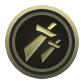
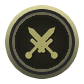
editor: the toolbar's right-hand discs drawn by BuildToolIcons.py
Level, Balance, Generate, Check, Undo, Redo, Save, To source and
Play/Pause were Wenrexa discs with stock glyphs, and Check was a square
card that matched nothing beside it. They are now drawn by the same script
as the tool strip, on the same blank and in the same glyph colour, so the
whole toolbar is one hand:
- Level: three slider tracks, knobs set apart.
- Balance: two crossed swords, points up (drawn heavy; at the first,
  thinner weight they read as scratches at 84 px).
- Generate: a die showing five.
- Check: a tick, on a disc like the rest.
- Undo / Redo: half-turn arrows over the top, heads down.
- Save: a floppy disk.
- To source: an arrow down into a tray (the old circling arrows read as
  "refresh").
- Play / Pause: as before, redrawn.

The script used to derive its blank disc from icon_tb_play.png on every
run; now that it draws the Play disc too, that would read its own output.
The first run keeps the blank as assets/ui/icon_tb_blank.png and later
runs start from it (delete it to derive afresh from a genuine Wenrexa
disc). Re-running left every tool-strip and New world disc byte-identical,
which is the check that the kept blank is the one they were drawn on.

diff --git a/tools/BuildToolIcons.py b/tools/BuildToolIcons.py
@@ -1,7 +1,8 @@
 # tools/BuildToolIcons.py - the map editor's script-drawn icon discs
 # (docs/editor-updates-plan.md): the TOOL STRIP's (P1,
-# assets/ui/icon_tb_tool_<name>.png) and the New world disc (P4,
-# icon_tb_newworld.png).
+# assets/ui/icon_tb_tool_<name>.png), the New world disc (P4,
+# icon_tb_newworld.png) and the toolbar's right-hand group (Level, Balance,
+# Generate, Check, Undo/Redo, Save, To source, Play/Pause).
 #
 # Run:  python tools\BuildToolIcons.py [--montage <png>]
 #
@@ -35,8 +36,24 @@ SHADOW = (8, 8, 6, 170)
 
 
 def blank_disc():
+    """The blank disc: icon_tb_blank.png, derived once from the Play disc.
+
+    The derivation reads a Wenrexa disc, and since this script now draws the
+    Play disc too, deriving on every run would read its own output. So the
+    first run keeps the blank beside the icons and every later run starts from
+    that; delete it to derive afresh (from a genuine Wenrexa Play disc)."""
+    path = os.path.join(UI, "icon_tb_blank.png")
+    if os.path.exists(path):
+        return Image.open(path).convert("RGBA")
+    blank = derive_blank(os.path.join(UI, "icon_tb_play.png"))
+    blank.save(path)
+    print("wrote", os.path.relpath(path, ROOT))
+    return blank
+
+
+def derive_blank(src):
     """The Play disc with its glyph removed: the face refilled per radius."""
-    im = Image.open(os.path.join(UI, "icon_tb_play.png")).convert("RGBA")
+    im = Image.open(src).convert("RGBA")
     px = im.load()
     # The face colour at each integer radius, from pixels too dark to be glyph.
     samples = {}
@@ -171,6 +188,112 @@ def glyph_newworld(d):
     d.rectangle([(px - 2) * SS, (py - 7) * SS, (px + 2) * SS, (py + 7) * SS], fill=GLYPH)
 
 
+# --- the toolbar's right-hand group ------------------------------------------
+# Level settings, Balance, Generate, Check, Undo/Redo, Save, To source and
+# Play/Pause. They were Wenrexa discs with stock glyphs (Check a square card
+# that matched nothing); drawing them here puts the whole toolbar in one hand.
+def glyph_level(d):
+    # The level's mood knobs: three slider tracks, their knobs set apart.
+    for y, k in ((31.5, 49), (41.5, 35), (51.5, 44)):
+        d.rectangle([27 * SS, (y - 1.2) * SS, 56 * SS, (y + 1.2) * SS], fill=GLYPH)
+        d.rounded_rectangle([(k - 3) * SS, (y - 4.5) * SS, (k + 3) * SS, (y + 4.5) * SS],
+                            radius=1.5 * SS, fill=GLYPH)
+
+
+def sword(d, tip, pommel):
+    # A straight sword from tip to pommel: blade, crossguard, grip, pommel.
+    tx, ty = tip
+    px, py = pommel
+    L = math.dist(tip, pommel)
+    ux, uy = (px - tx) / L, (py - ty) / L     # tip -> pommel
+    nx, ny = -uy, ux                          # across the blade
+
+    def at(t, s=0.0):
+        return (tx + ux * t + nx * s, ty + uy * t + ny * s)
+
+    # Heavy on purpose: at 1.9 half-width the pair read as scratches at 84 px.
+    guard = L * 0.64
+    d.polygon(S([at(0), at(5, 2.8), at(guard, 2.8), at(guard, -2.8), at(5, -2.8)]), fill=GLYPH)
+    line(d, at(guard, 7.5), at(guard, -7.5), 3.8)   # crossguard
+    line(d, at(guard), at(L - 2.5), 3.4)            # grip
+    r = 3.3
+    cx, cy = at(L - 1)
+    d.ellipse([(cx - r) * SS, (cy - r) * SS, (cx + r) * SS, (cy + r) * SS], fill=GLYPH)
+
+
+def glyph_balance(d):
+    # Combat tuning: two swords crossed, points up.
+    sword(d, (28, 27), (55, 56))
+    sword(d, (55, 27), (28, 56))
+
+
+def glyph_generate(d):
+    # A die showing five: the level generator's roll.
+    d.rounded_rectangle([27 * SS, 27 * SS, 56 * SS, 56 * SS], radius=5 * SS,
+                        outline=GLYPH, width=int(3 * SS))
+    for x, y in ((34.5, 34.5), (48.5, 34.5), (41.5, 41.5), (34.5, 48.5), (48.5, 48.5)):
+        r = 2.8
+        d.ellipse([(x - r) * SS, (y - r) * SS, (x + r) * SS, (y + r) * SS], fill=GLYPH)
+
+
+def glyph_check(d):
+    # The checker: a tick.
+    line(d, (29, 42), (38, 51.5), 5.5)
+    line(d, (38, 51.5), (55, 31), 5.5)
+
+
+def turn_arrow(d, mirror):
+    # A half-turn arrow over the top, head down at the end it turns toward:
+    # undo turns back to the left, redo on to the right.
+    cx, cy, r, w = 41.5, 45.0, 12.0, 4.0
+    box = [(cx - r) * SS, (cy - r) * SS, (cx + r) * SS, (cy + r) * SS]
+    if mirror:
+        d.arc(box, 160, 360, fill=GLYPH, width=int(w * SS))
+        hx = cx + r
+    else:
+        d.arc(box, 180, 380, fill=GLYPH, width=int(w * SS))
+        hx = cx - r
+    d.polygon(S([(hx - 6.5, cy - 1), (hx + 6.5, cy - 1), (hx, cy + 8)]), fill=GLYPH)
+
+
+def glyph_undo(d):
+    turn_arrow(d, False)
+
+
+def glyph_redo(d):
+    turn_arrow(d, True)
+
+
+def glyph_save(d):
+    # A floppy disk: chamfered body, the shutter and the label cut out of it.
+    d.polygon(S([(27, 27), (50, 27), (56, 33), (56, 56), (27, 56)]), fill=GLYPH)
+    clear = (0, 0, 0, 0)
+    d.rectangle([33 * SS, 30 * SS, 47 * SS, 38 * SS], fill=clear)   # shutter window
+    d.rectangle([43 * SS, 31.5 * SS, 45.5 * SS, 36.5 * SS], fill=GLYPH)  # its slide
+    d.rectangle([31 * SS, 43 * SS, 52 * SS, 53 * SS], fill=clear)   # label
+    d.rectangle([34 * SS, 46 * SS, 49 * SS, 47.5 * SS], fill=GLYPH)  # label lines
+    d.rectangle([34 * SS, 49.5 * SS, 45 * SS, 51 * SS], fill=GLYPH)
+
+
+def glyph_source(d):
+    # To source: an arrow down into a tray - the project copied home.
+    line(d, (41.5, 25), (41.5, 42), 4.0)
+    d.polygon(S([(33, 38), (50, 38), (41.5, 48)]), fill=GLYPH)
+    line(d, (27, 44), (27, 56), 3.5)
+    line(d, (27, 56), (56, 56), 3.5)
+    line(d, (56, 56), (56, 44), 3.5)
+
+
+def glyph_play(d):
+    # Resume: a play triangle, nudged right so it sits optically centred.
+    d.polygon(S([(35, 28.5), (35, 54.5), (56, 41.5)]), fill=GLYPH)
+
+
+def glyph_pause(d):
+    d.rounded_rectangle([31 * SS, 29 * SS, 38.5 * SS, 54 * SS], radius=1.5 * SS, fill=GLYPH)
+    d.rounded_rectangle([44.5 * SS, 29 * SS, 52 * SS, 54 * SS], radius=1.5 * SS, fill=GLYPH)
+
+
 # Output name -> glyph; each writes assets/ui/icon_tb_<name>.png.
 GLYPHS = {
     "tool_paint": glyph_paint,
@@ -180,6 +303,16 @@ GLYPHS = {
     "tool_pick": glyph_pick,
     "tool_filllevel": glyph_filllevel,
     "newworld": glyph_newworld,
+    "level": glyph_level,
+    "balance": glyph_balance,
+    "generate": glyph_generate,
+    "check": glyph_check,
+    "undo": glyph_undo,
+    "redo": glyph_redo,
+    "save": glyph_save,
+    "source": glyph_source,
+    "play": glyph_play,
+    "pause": glyph_pause,
 }
 
 
